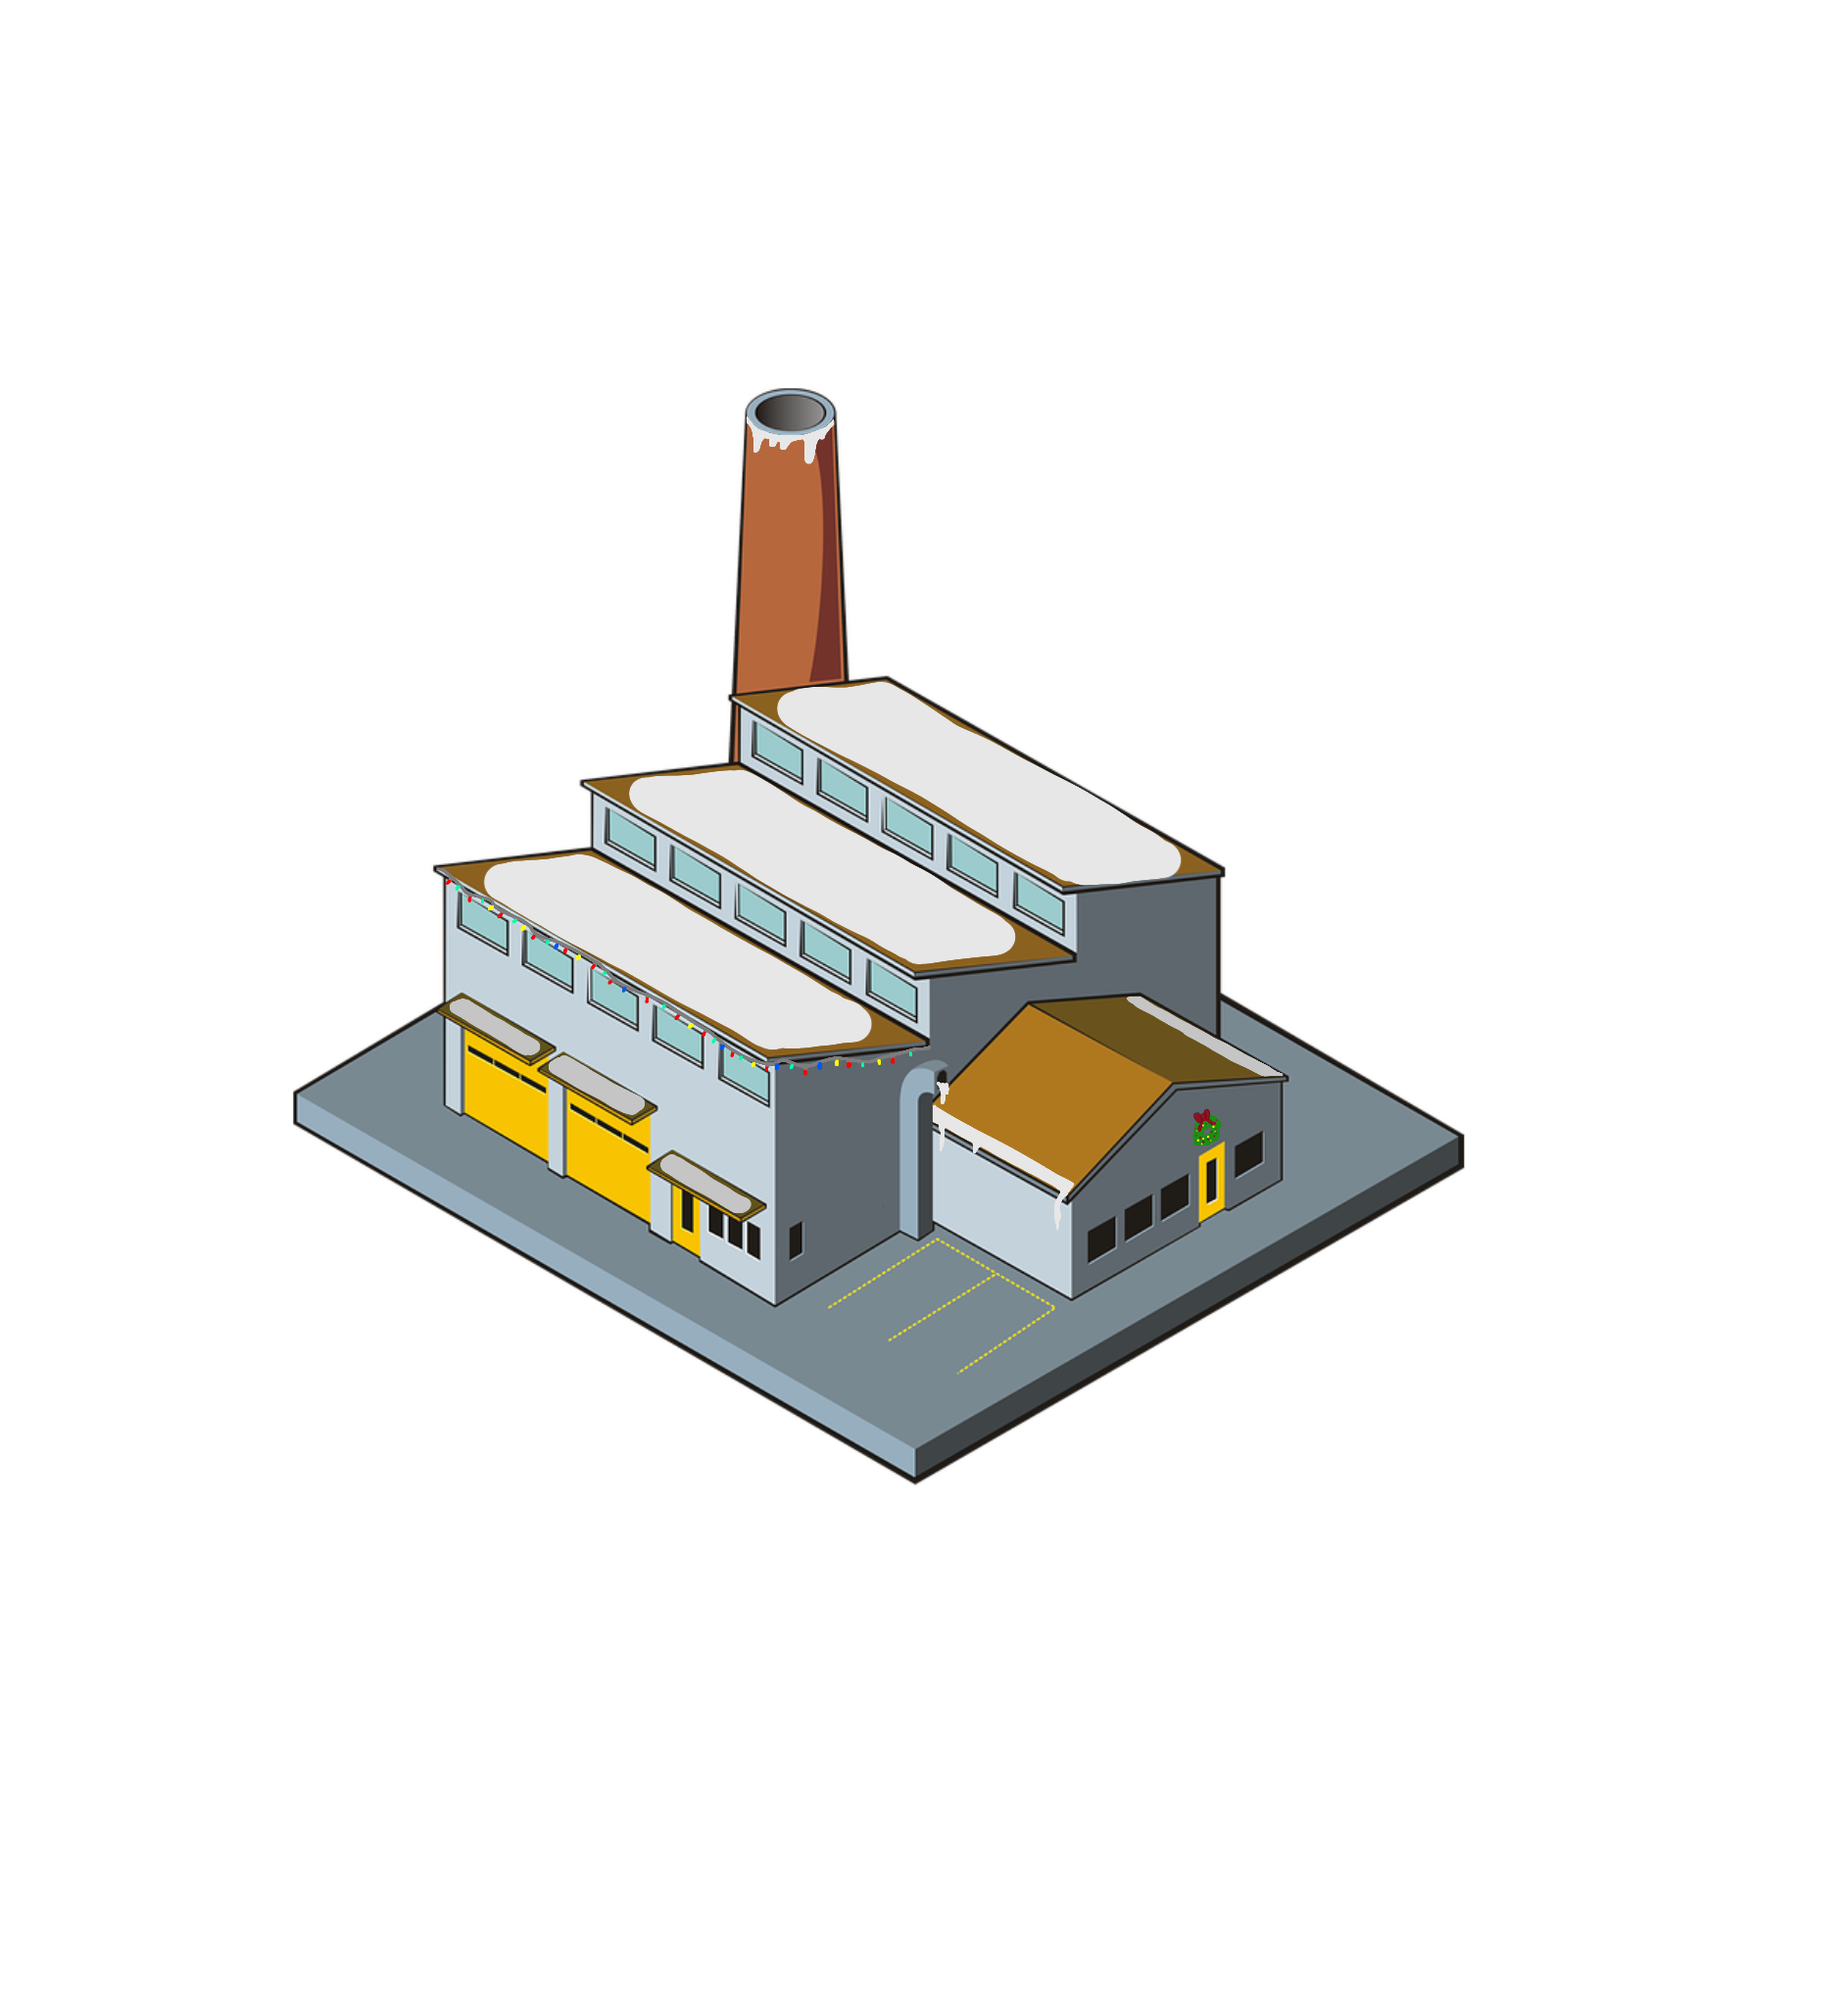
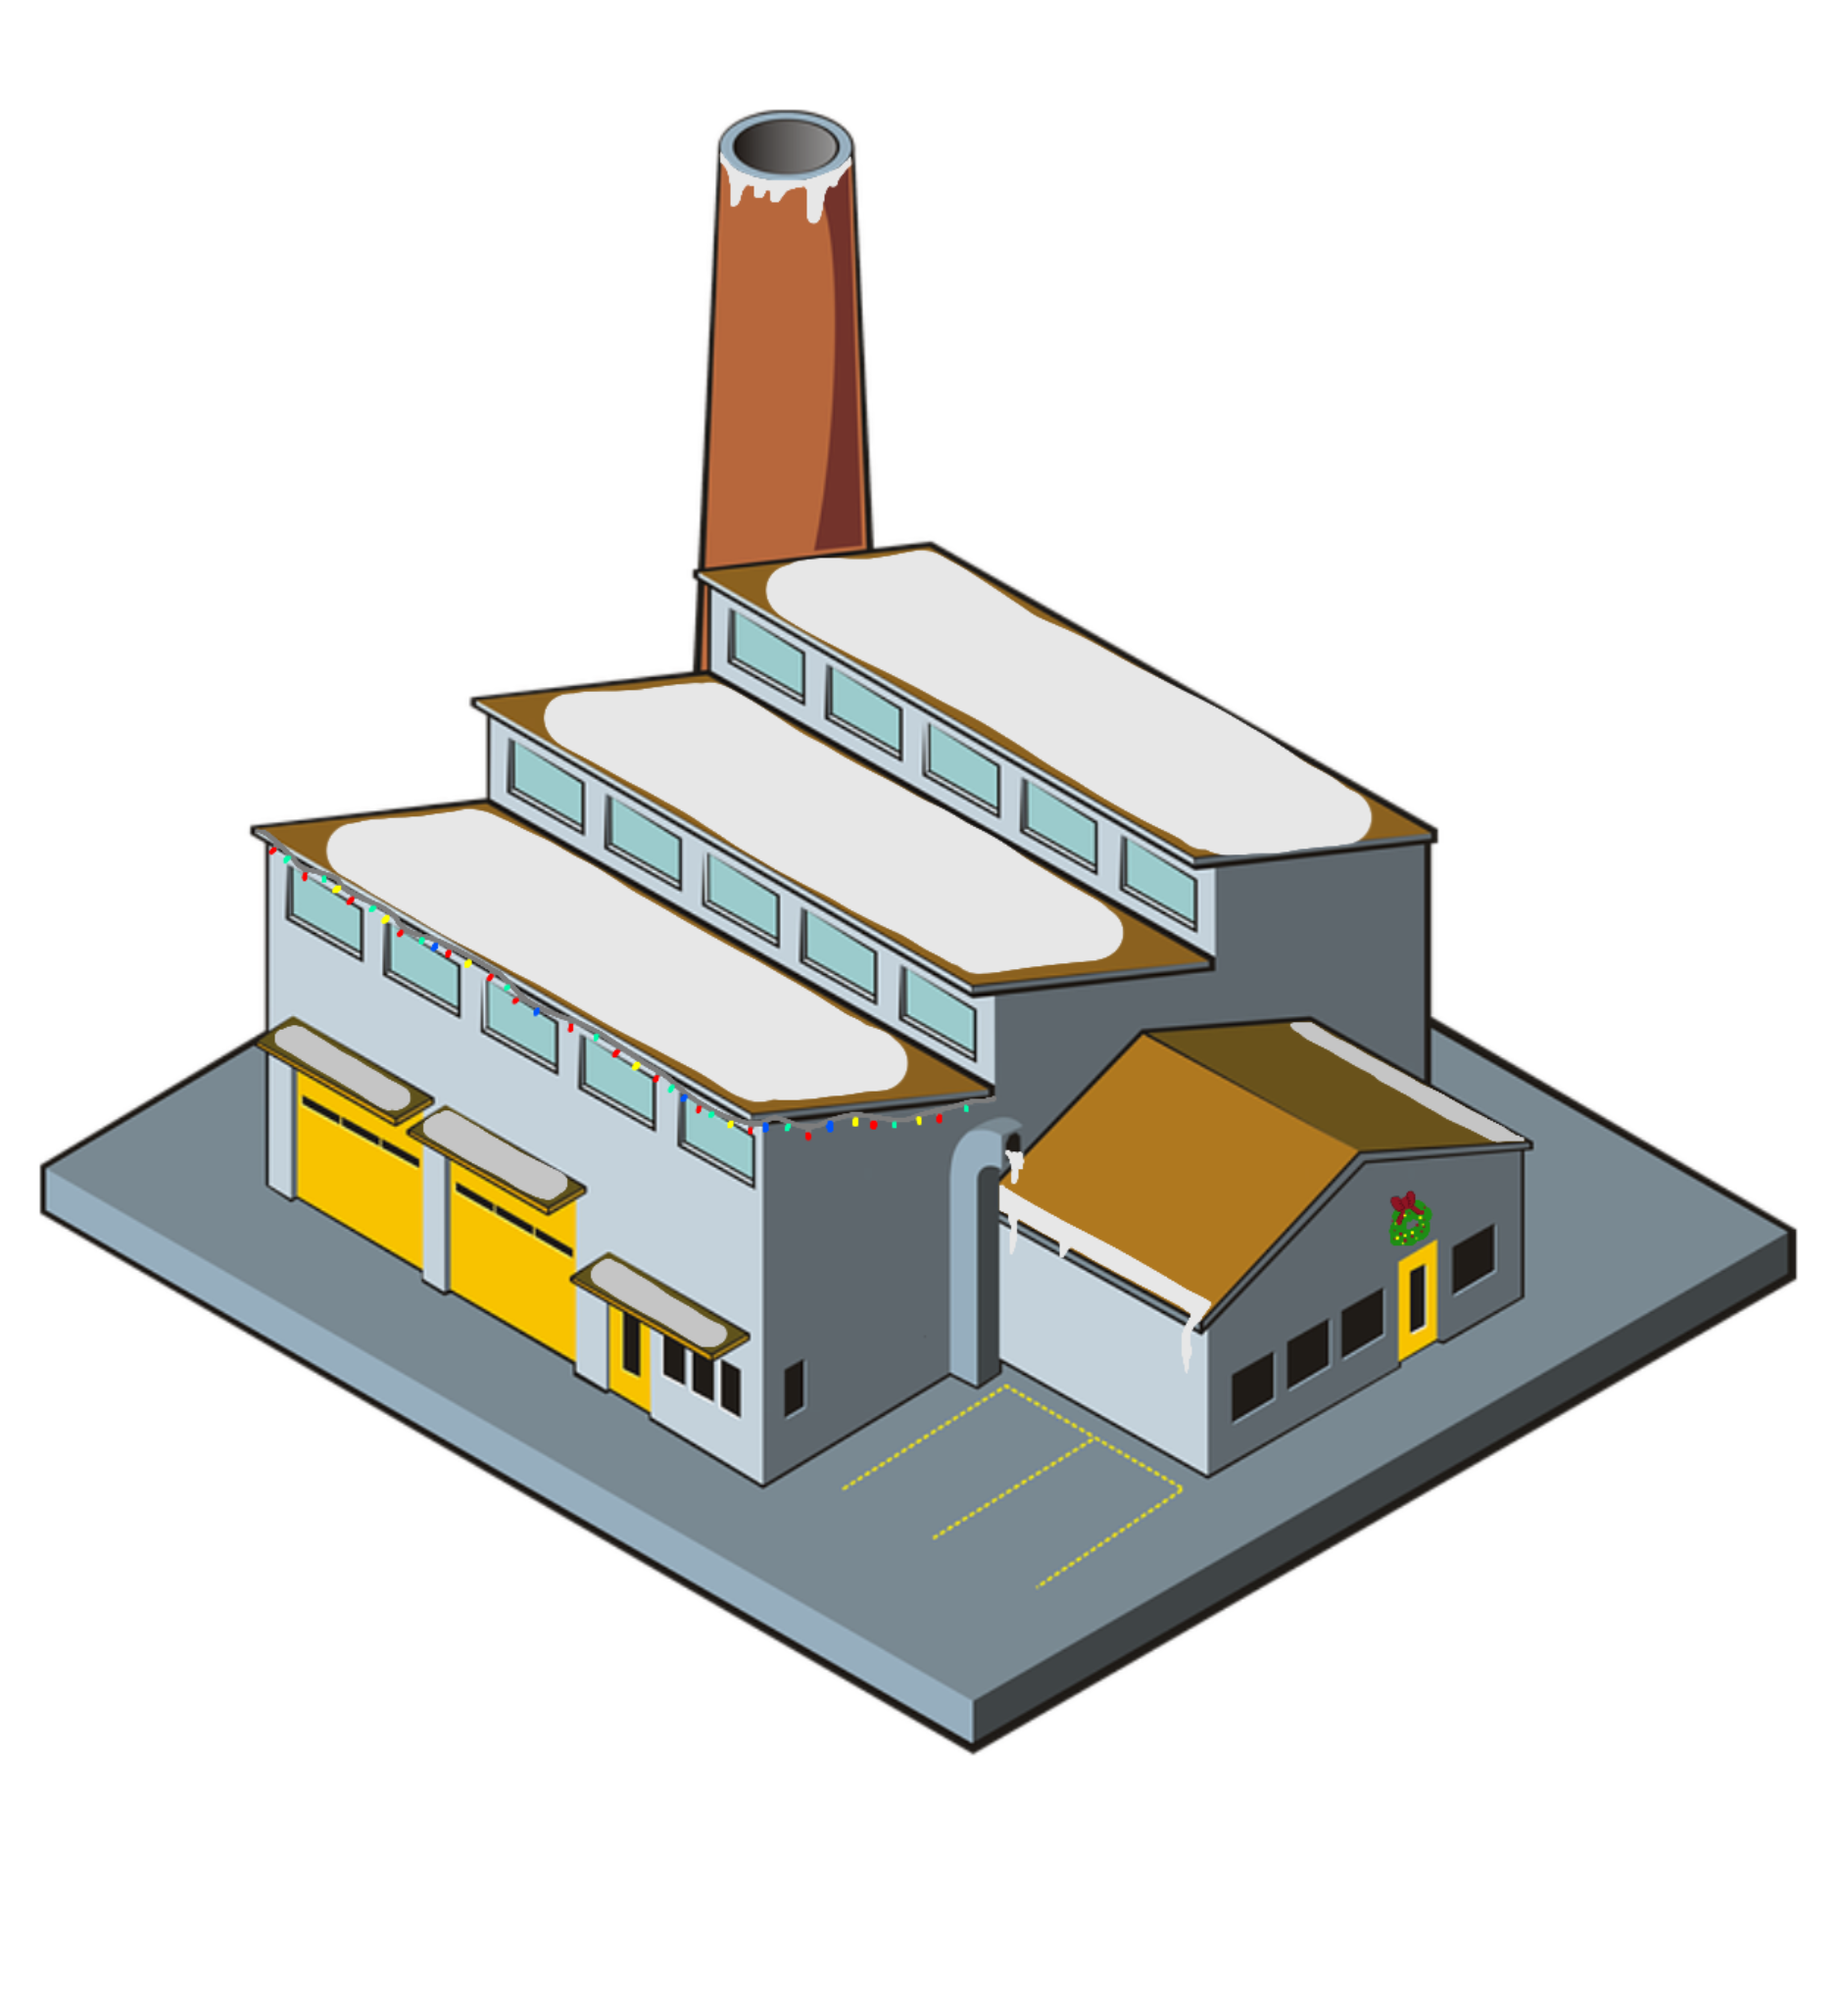
Changement de nouveau des images du jeu

Changed region(s): [[0.0, 0.0309, 0.9867, 0.8973], [0.5242, 0.2785, 0.6167, 0.3404], [0.6475, 0.3404, 0.6784, 0.3713]]

diff --git a/bob_party/src/Games/CookieClicker/cookieClicker.tsx b/bob_party/src/Games/CookieClicker/cookieClicker.tsx
@@ -119,7 +119,7 @@ function CookieClicker(props: { navigation: any}){
               Timer: {timer}
             </Text>
             <TouchableHighlight onPress={onPressCookie} >
-              <Image style={styles.photo} source={{uri: 'https://cdn-icons-png.flaticon.com/512/614/614131.png'}}/>
+              <Image style={styles.photo} source={{uri: 'https://codefirst.iut.uca.fr/git/BOB_PARTEAM/BOB_PARTY/raw/branch/Persistance/bob_party/assets/ImagesJeux/CookieClicker/ChristmasCookie.png'}}/>
             </TouchableHighlight>
             <Text>
               Argent {money}
@@ -130,7 +130,7 @@ function CookieClicker(props: { navigation: any}){
           </View>
           <View style={styles.containerRight}>
             <TouchableHighlight onPress={onPressGrandma}>
-              <Image style={styles.photo} source={{uri: 'https://www.pngall.com/wp-content/uploads/12/Grandma-Happy-PNG-Photo.png'}}/>
+              <Image style={styles.photo} source={{uri: 'https://codefirst.iut.uca.fr/git/BOB_PARTEAM/BOB_PARTY/raw/branch/Persistance/bob_party/assets/ImagesJeux/CookieClicker/ChristmasGrandma.png'}}/>
             </TouchableHighlight>
             <View>
               <Text style={styles.cout}>
@@ -139,7 +139,7 @@ function CookieClicker(props: { navigation: any}){
             </View>
 
             <TouchableHighlight onPress={onPressFarm} style={styles.photo}>
-              <Image style={styles.photo} source={{uri: 'https://www.pngall.com/wp-content/uploads/8/Farming-PNG-Picture.png'}}/>
+              <Image style={styles.photo} source={{uri: 'https://codefirst.iut.uca.fr/git/BOB_PARTEAM/BOB_PARTY/raw/branch/Persistance/bob_party/assets/ImagesJeux/CookieClicker/ChristmasFarm.png'}}/>
             </TouchableHighlight>
             <View>
               <Text style={styles.cout}>
@@ -148,7 +148,7 @@ function CookieClicker(props: { navigation: any}){
             </View>
 
             <TouchableHighlight onPress={onPressFactory}>
-              <Image style={styles.photo} source={{uri: 'https://cdn.pixabay.com/photo/2018/04/16/09/12/factory-3323977_960_720.png'}}/>
+              <Image style={styles.photo} source={{uri: 'https://codefirst.iut.uca.fr/git/BOB_PARTEAM/BOB_PARTY/raw/branch/Persistance/bob_party/assets/ImagesJeux/CookieClicker/ChristmasFactory.png'}}/>
             </TouchableHighlight>
             <View>
               <Text style={styles.cout}>
@@ -209,7 +209,7 @@ const styles = StyleSheet.create({
   },
   photo: {
     width: 50,
-    height: 50
+    height: 100
   },
   cout: {
     marginBottom: 20
